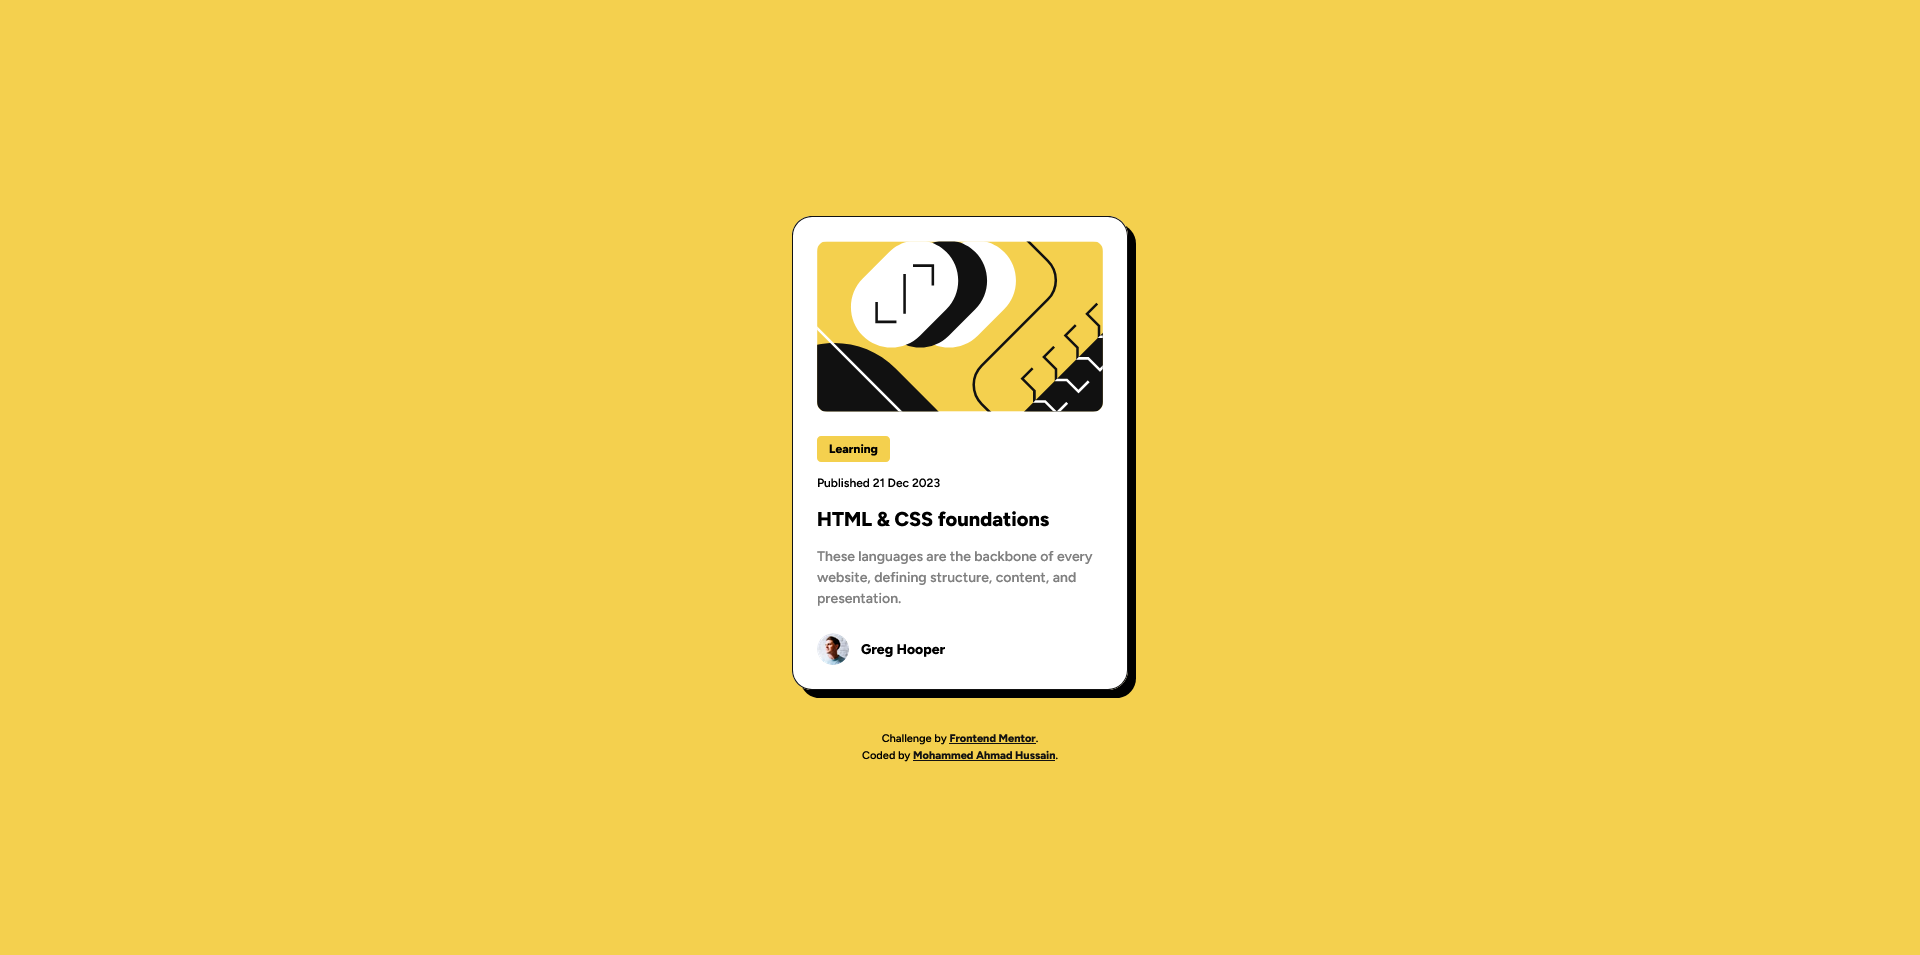
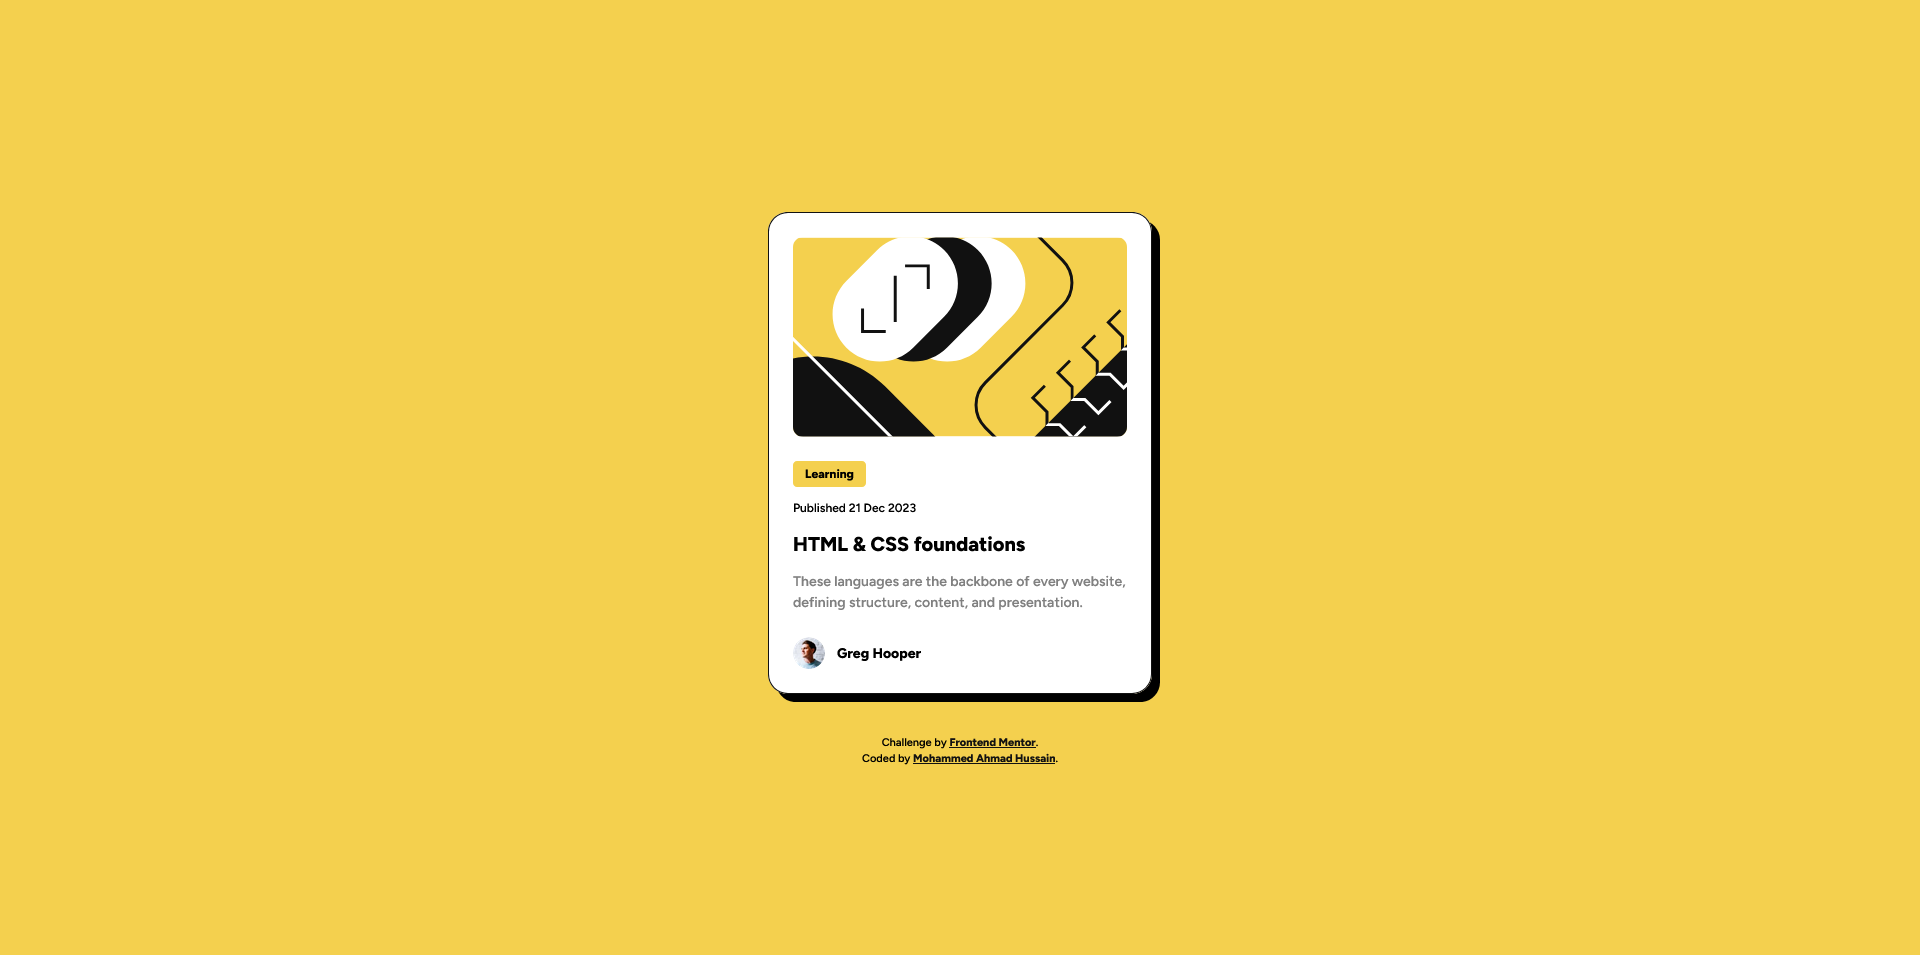
added solution url

Changed region(s): [[0.375, 0.2126, 0.625, 0.8199]]

diff --git a/style.css b/style.css
@@ -76,7 +76,7 @@ body {
 
 .blog-card {
   background-color: var(--white);
-  max-width: 21rem;
+  max-width: 24rem;
   display: flex;
   flex-direction: column;
   justify-content: center;

diff --git a/README.md b/README.md
@@ -26,7 +26,7 @@ Users should be able to:
 
 ### Links
 
-- Solution URL: [Add solution URL here](https://your-solution-url.com)
+- Solution URL: [https://www.frontendmentor.io/solutions/responsive-blog-preview-card-using-html-and-css-rd6SV4CdTK](https://www.frontendmentor.io/solutions/responsive-blog-preview-card-using-html-and-css-rd6SV4CdTK)
 - Live Site URL: [https://mah07308.github.io/FM-Blog-Preview-Card/](https://mah07308.github.io/FM-Blog-Preview-Card/)
 
 ## My process
